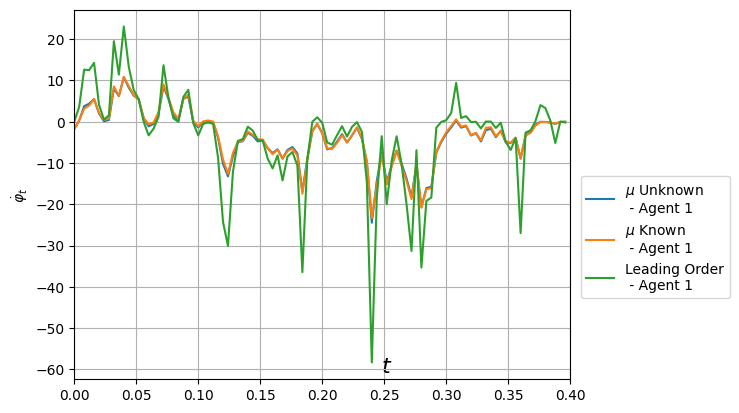
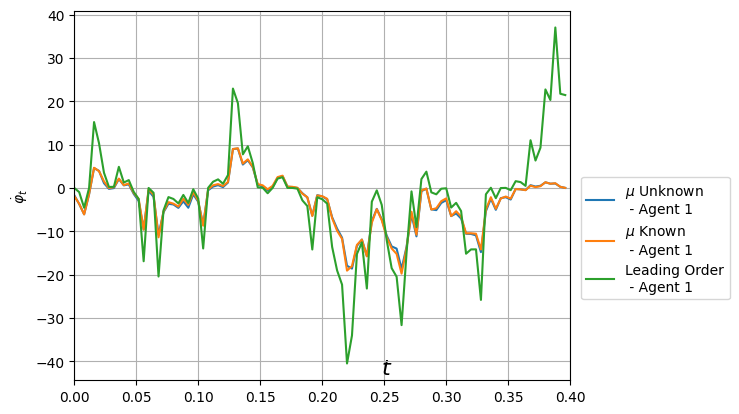
change a sample path for power cost 2 agents

diff --git a/Stage2/.ipynb_checkpoints/gan2-checkpoint.py b/Stage2/.ipynb_checkpoints/gan2-checkpoint.py
@@ -25,7 +25,7 @@ else:
     DEVICE = "cuda"
 
 ## Regimes
-N_AGENT = 10
+N_AGENT = 2
 COST_POWER = 1.5
 
 ## Global Constants
@@ -1072,6 +1072,7 @@ def plot_all_trajectories(gen_hidden_lst, gen_lr, gen_decay, gen_scheduler_step,
         benchmark_name = "Ground Truth"
     else:
         if N_AGENT == 2:
+            visualize_obs = -1
             benchmark_name = "Leading Order"
         else:
             benchmark_name = "Frictionless"

diff --git a/Stage2/gan2.py b/Stage2/gan2.py
@@ -25,7 +25,7 @@ else:
     DEVICE = "cuda"
 
 ## Regimes
-N_AGENT = 10
+N_AGENT = 2
 COST_POWER = 1.5
 
 ## Global Constants
@@ -1072,6 +1072,7 @@ def plot_all_trajectories(gen_hidden_lst, gen_lr, gen_decay, gen_scheduler_step,
         benchmark_name = "Ground Truth"
     else:
         if N_AGENT == 2:
+            visualize_obs = -1
             benchmark_name = "Leading Order"
         else:
             benchmark_name = "Frictionless"
